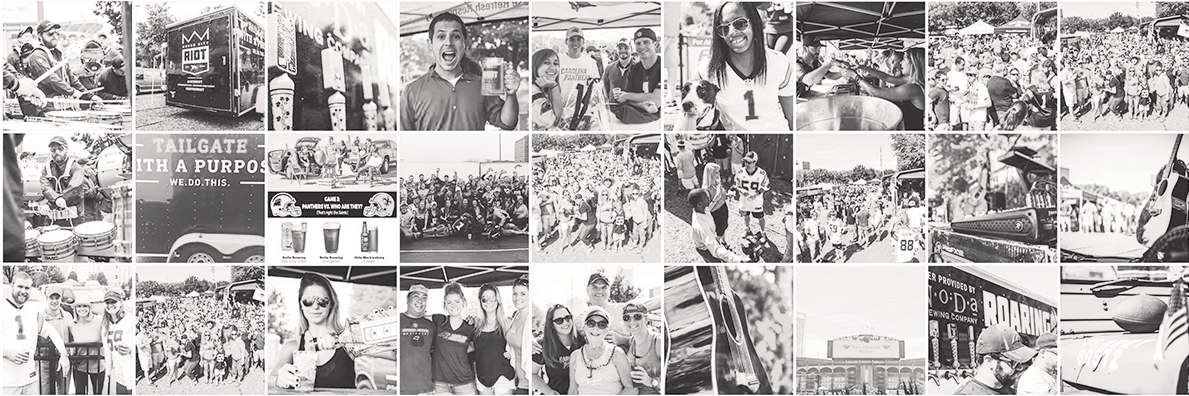
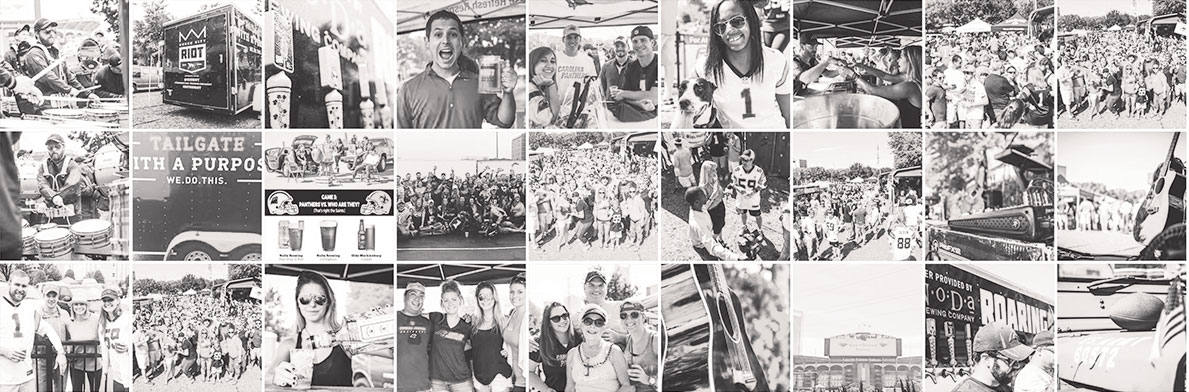
optimized images.

diff --git a/css/main.css b/css/main.css
@@ -657,17 +657,17 @@ h1, h2, h3, h4, h5, h6 {
   margin-top: 59px; }
 
 .hero__image .hero__image__container {
-  height: 392px;
+  height: 412px;
   position: absolute;
   top: 59px;
   right: 0;
   bottom: 0;
   left: 0;
-  background-image: url(../images/backgrounds/facebook.png);
+  background-image: url(../images/backgrounds/facebook.jpg);
   background-repeat: repeat-x;
   background-size: auto 100%; }
 .hero__image .hero__overlay {
-  height: 392px;
+  height: 412px;
   position: absolute;
   top: 59px;
   right: 0;
@@ -687,7 +687,7 @@ h1, h2, h3, h4, h5, h6 {
   margin: 0 auto;
   position: relative;
   padding: 0 24px;
-  height: 392px;
+  height: 412px;
   position: relative; }
   @media (max-width: 600px) {
     .hero__container {

diff --git a/sass/layout/header/_hero.scss b/sass/layout/header/_hero.scss
@@ -1,4 +1,4 @@
-$heroHeight: 392px;
+$heroHeight: 412px;
 
 .hero {
 	margin-top: $nav-height - 1;
@@ -7,7 +7,7 @@ $heroHeight: 392px;
 	.hero__image__container {
 		height: $heroHeight;
 		@include absolute($nav-height - 1,0,0,0);
-		background-image: url(../images/backgrounds/facebook.png);
+		background-image: url(../images/backgrounds/facebook.jpg);
 		background-repeat: repeat-x;
 		background-size: auto 100%;
 	}
